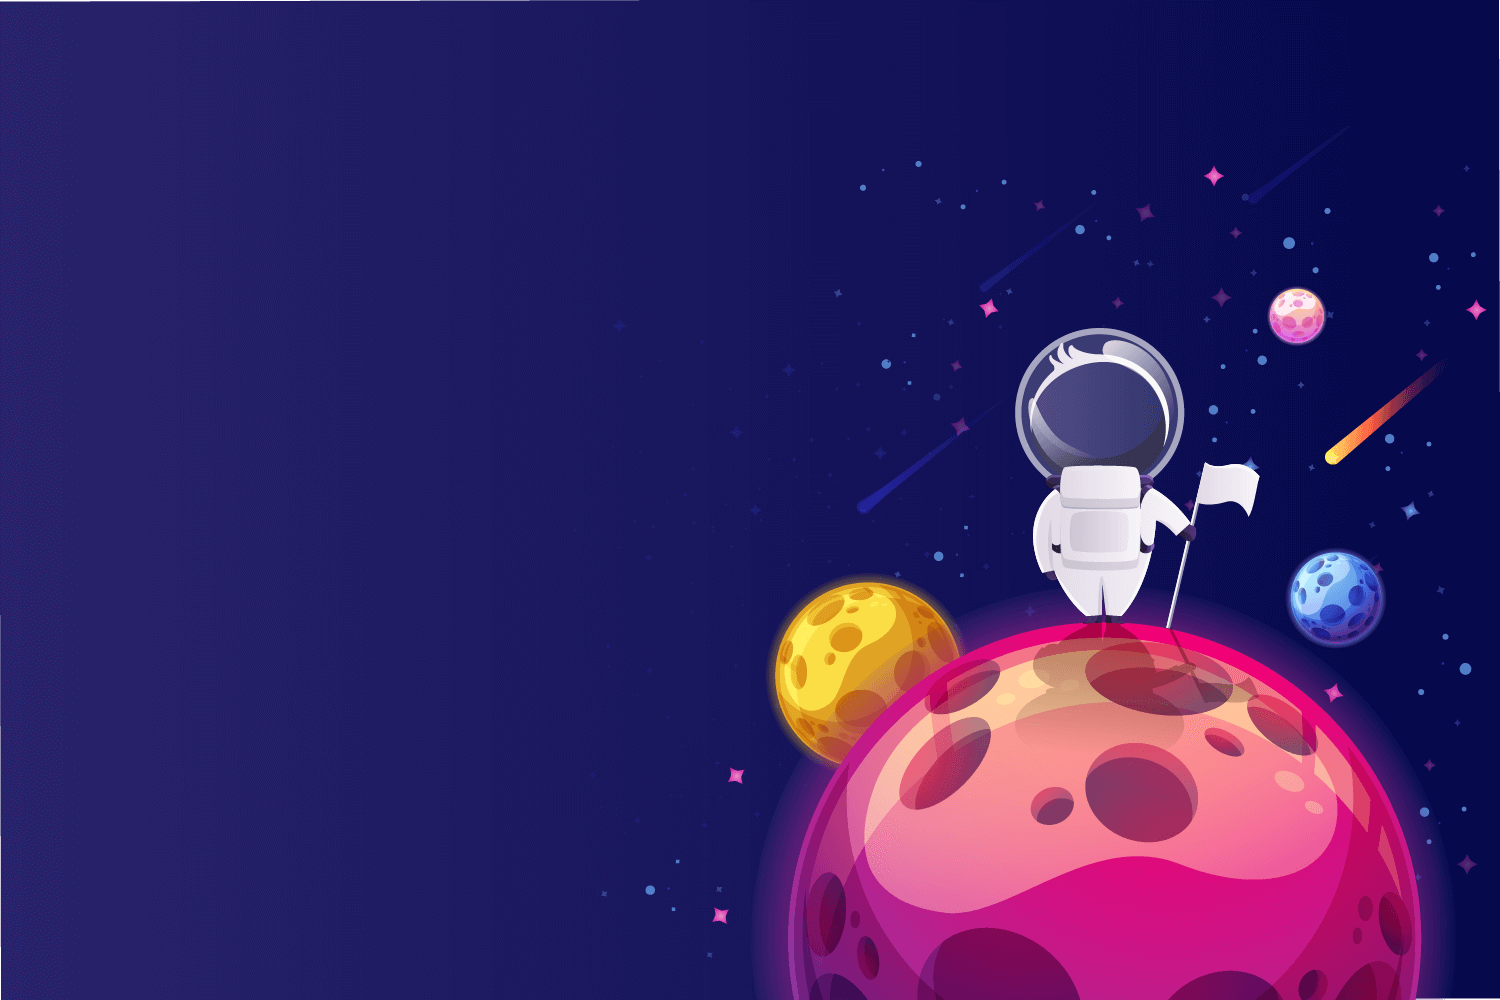
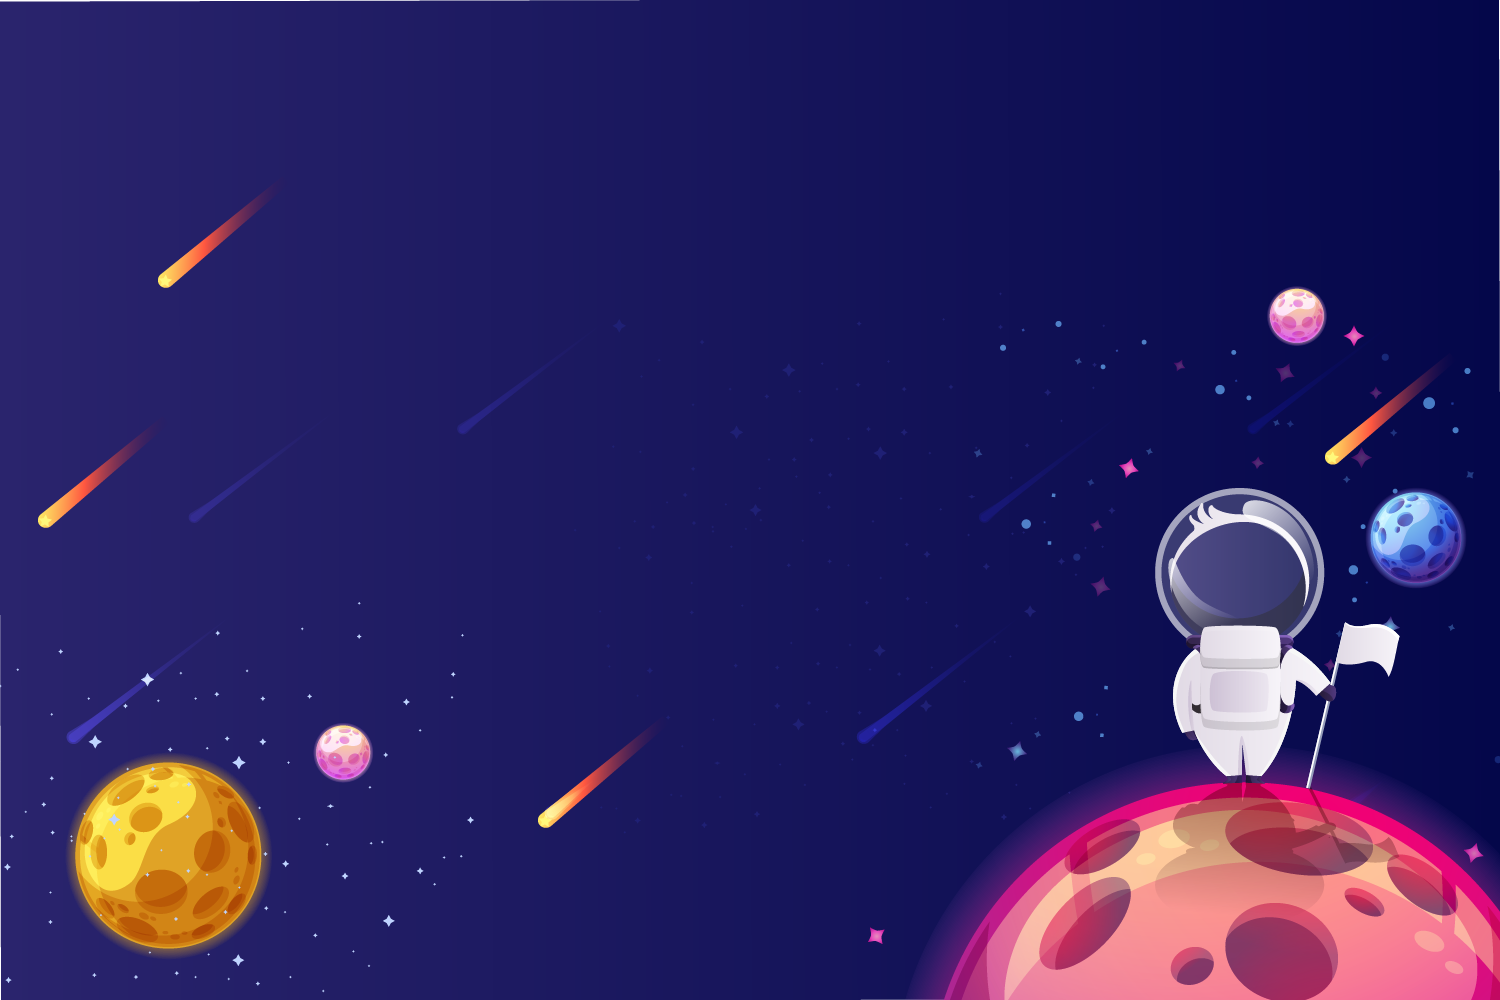
fixed about tab and background image

diff --git a/src/components/about/TheRequirements.vue b/src/components/about/TheRequirements.vue
@@ -1,26 +1,22 @@
 <template>
-  <the-layout>
-    <template v-slot:header>Require&shy;ments</template>
+  <the-layout class="rounded-xl md:rounded-none bg-gray-600 md:bg-none bg-opacity-40 md:bg-opacity-0 p-12 md:p-0">
+    <template v-slot:header class="text-red-800">Require&shy;ments</template>
 
-<<<<<<< HEAD
-    <section class="grid grid-rows-2 md:grid-cols-2 gap-8 lg:gap-x-4 lg:gap-y-12 my-0 mx-12">
-=======
-    <section class="grid grid-flow-row grid-cols-2 gap-8 max-w-4xl mx-auto">
->>>>>>> 76588dd4710860a8ba39226c4d2f89d791caac6b
+    <section class="grid grid-flow-row grid-cols-1 md:grid-cols-2 gap-y-16 gap-x-16 md:gap-y-16 md:gap-x-12 max-w-4xl mx-auto mb-12 md:mb-0">
       <div v-for="(requirement, idx) in requirements" :key="idx">
         <font-awesome-icon
           v-if="requirement.icon"
           :icon="[requirement.family, requirement.icon]"
-          class="mx-auto text-6xl lg:text-9xl flex text-center text-blue-300 mb-6"
+          class="mx-auto text-9xl md:text-8xl flex text-center text-blue-300 mb-6"
         ></font-awesome-icon>
 
         <img
           v-else
           :alt="requirement.desc"
           :src="requirement.img"
-          class="mx-auto h-16 lg:h-32 mb-6"
+          class="mx-auto h-32 md:h-24 mb-6"
         />
-        <p class="text-center text-base sm:text-lg md:text-2xl">
+        <p class="text-center">
           {{ requirement.desc }}
         </p>
       </div>

diff --git a/src/components/about/TheBenefits.vue b/src/components/about/TheBenefits.vue
@@ -1,18 +1,18 @@
 <template>
-  <the-layout class="max-w-4xl mx-auto">
+  <the-layout class="max-w-4xl mx-auto rounded-xl md:rounded-none bg-gray-800 md:bg-none bg-opacity-40 md:bg-opacity-0 py-12 px-8 md:p-0">
     <template v-slot:header>What will you get?</template>
 
     <section>
-      <h2 class="font-semibold mb-8 text-3xl">Hard Skills</h2>
+      <h2 class="font-semibold mb-8 text-3xl text-center md:text-left">Hard Skills</h2>
       <app-skills :skills="hardSkills"></app-skills>
     </section>
 
-    <section class="mt-12">
-      <h2 class="font-semibold mb-8 text-3xl">Soft Skills</h2>
+    <section>
+      <h2 class="font-semibold mb-8 text-3xl text-center md:text-left">Soft Skills</h2>
       <app-skills :skills="softSkills"></app-skills>
     </section>
 
-    <section class="mt-12">
+    <section>
       <h2 class="font-semibold text-3xl">Job Experiences</h2>
       <div></div>
     </section>

diff --git a/src/components/about/TheRegistration.vue b/src/components/about/TheRegistration.vue
@@ -1,8 +1,8 @@
 <template>
-  <the-layout>
+  <the-layout class="rounded-xl md:rounded-none bg-gray-800 md:bg-none bg-opacity-40 md:bg-opacity-0 p-8 md:p-0">
     <template v-slot:header>BE ONE OF US!</template>
 
-    <section class="text-center">
+    <section class="text-center text-3xl">
       <h2>Open Registration</h2>
       <h3>
         <span class="font-semibold text-lionel-purple">27 January</span> 2021
@@ -18,7 +18,7 @@
         rel="noopener noreferrer"
       >
         <button
-          class="py-4 px-8 rounded-full bg-primary tracking-widest mt-24 uppercase"
+          class="py-4 px-8 rounded-full bg-primary mt-24 md:mt-40 shadow-lg uppercase"
         >
           Register Here
         </button>

diff --git a/src/components/about/TheContact.vue b/src/components/about/TheContact.vue
@@ -1,5 +1,5 @@
 <template>
-  <the-layout>
+  <the-layout class="rounded-xl md:rounded-none bg-gray-800 md:bg-none bg-opacity-40 md:bg-opacity-0 p-12 md:p-0">
     <template v-slot:header>Contact Us</template>
 
     <section>
@@ -15,7 +15,7 @@
       </section>
 
       <section
-        class="flex flex-wrap justify-around items-center mt-16 max-w-4xl mx-auto"
+        class="flex flex-wrap justify-around mx-auto items-center mt-24 max-w-4xl"
       >
         <a
           v-for="(social, idx) in socials"

diff --git a/vue.config.js b/vue.config.js
@@ -13,7 +13,7 @@ module.exports = {
   configureWebpack: {
     plugins: [
       new ImageminPlugin({
-        disable: process.env.NODE_ENV === "development",
+        // disable: process.env.NODE_ENV === "development",
         optipng: null,
         pngquant: process.env.NODE_ENV !== "production" ? null : { speed: 11 },
         svgo: { plugins: [{ removeViewBox: false }] },

diff --git a/src/components/about/TheInitialTest.vue b/src/components/about/TheInitialTest.vue
@@ -1,5 +1,5 @@
 <template>
-  <the-layout class="text-center max-w-lg mx-auto">
+  <the-layout class="text-center max-w-lg mx-auto rounded-xl md:rounded-none bg-gray-800 md:bg-none bg-opacity-40 md:bg-opacity-0 p-12 md:p-0">
     <template v-slot:header>Initial Test</template>
 
     <section>

diff --git a/src/components/AppButtonAbout.vue b/src/components/AppButtonAbout.vue
@@ -7,6 +7,10 @@
 </template>
 
 <style scoped>
+button {
+  outline: none;
+}
+
 /* button {
   border: none;
   text-transform: uppercase;
